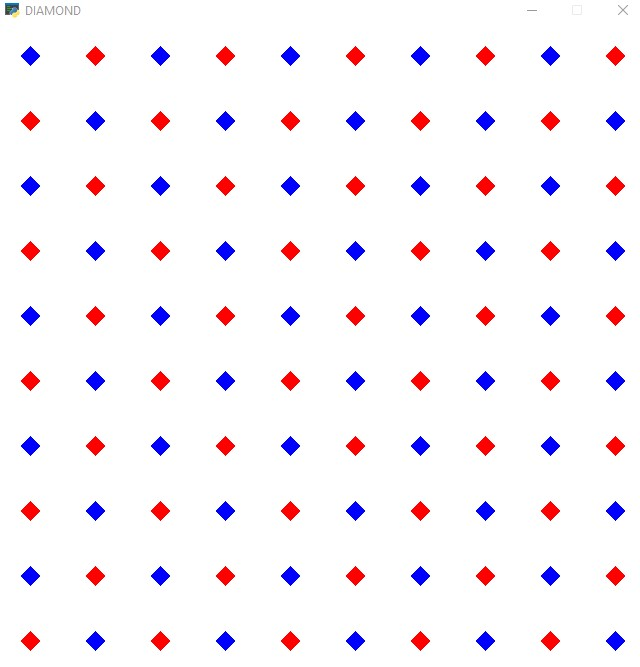
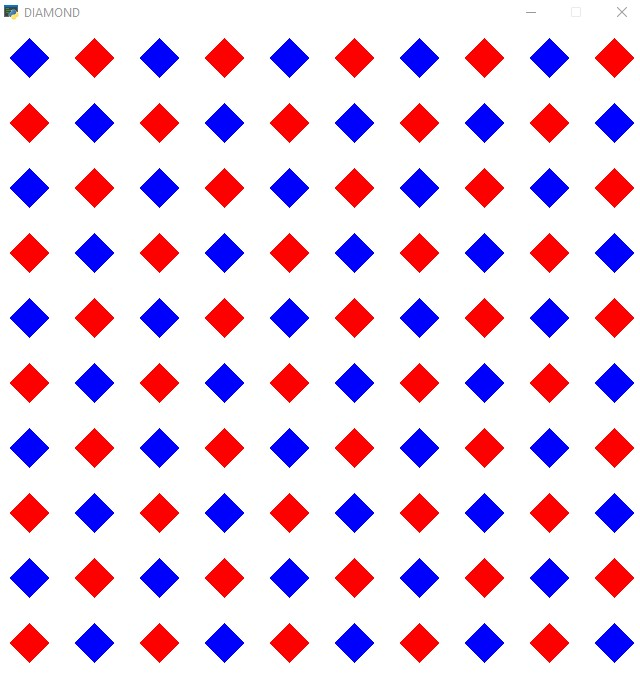
09052023:1130

diff --git a/13/diamond.py b/13/diamond.py
@@ -14,10 +14,10 @@ for row in range(10):
         x = column * raw_col + l_margin
         y = row * raw_row + b_margin
         if column % 2 == 0 and row %2 == 0  or column % 2 == 1 and row %2 == 1:
-            arcade.draw_triangle_filled(x - 10,y, x, y + 10,x + 10,y, arcade.color.RED)
-            arcade.draw_triangle_filled(x - 10,y, x, y - 10,x + 10,y, arcade.color.RED)           
+            arcade.draw_triangle_filled(x - 20,y, x, y + 20,x + 20,y, arcade.color.RED)
+            arcade.draw_triangle_filled(x - 20,y, x, y - 20,x + 20,y, arcade.color.RED)           
         if column % 2 == 1 and row % 2 == 0  or column % 2 == 0 and row % 2 == 1:
-            arcade.draw_triangle_filled(x - 10,y, x, y + 10,x + 10,y, arcade.color.BLUE)
-            arcade.draw_triangle_filled(x - 10,y, x, y - 10,x + 10,y, arcade.color.BLUE)
+            arcade.draw_triangle_filled(x - 20,y, x, y + 20,x + 20,y, arcade.color.BLUE)
+            arcade.draw_triangle_filled(x - 20,y, x, y - 20,x + 20,y, arcade.color.BLUE)
 arcade.finish_render()
 arcade.run()

diff --git a/13/README.md b/13/README.md
@@ -7,4 +7,3 @@
 |Interstellar|a Mini Game on progress |
 |diamond|Drawing rectangle of diamond with arcade triangle |
 ![concentric](diamond.jpg)
-
